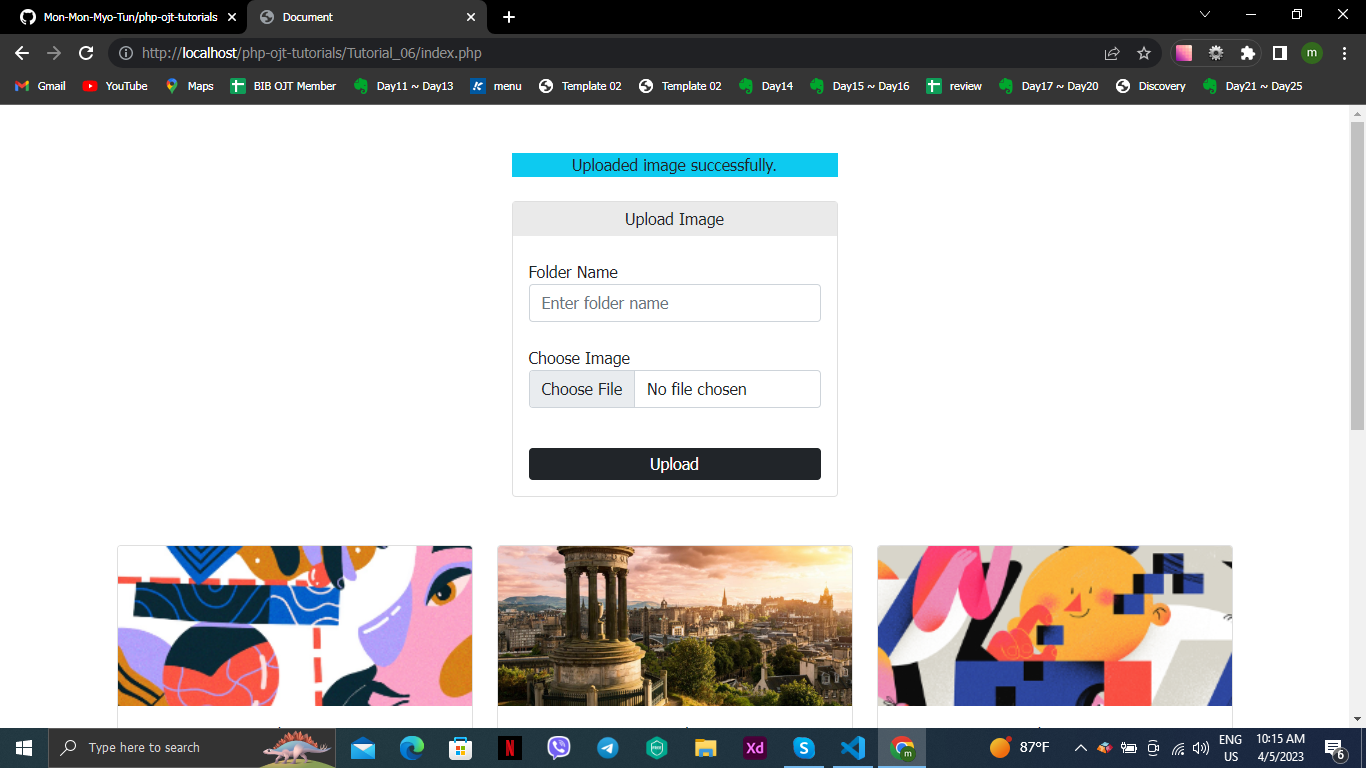
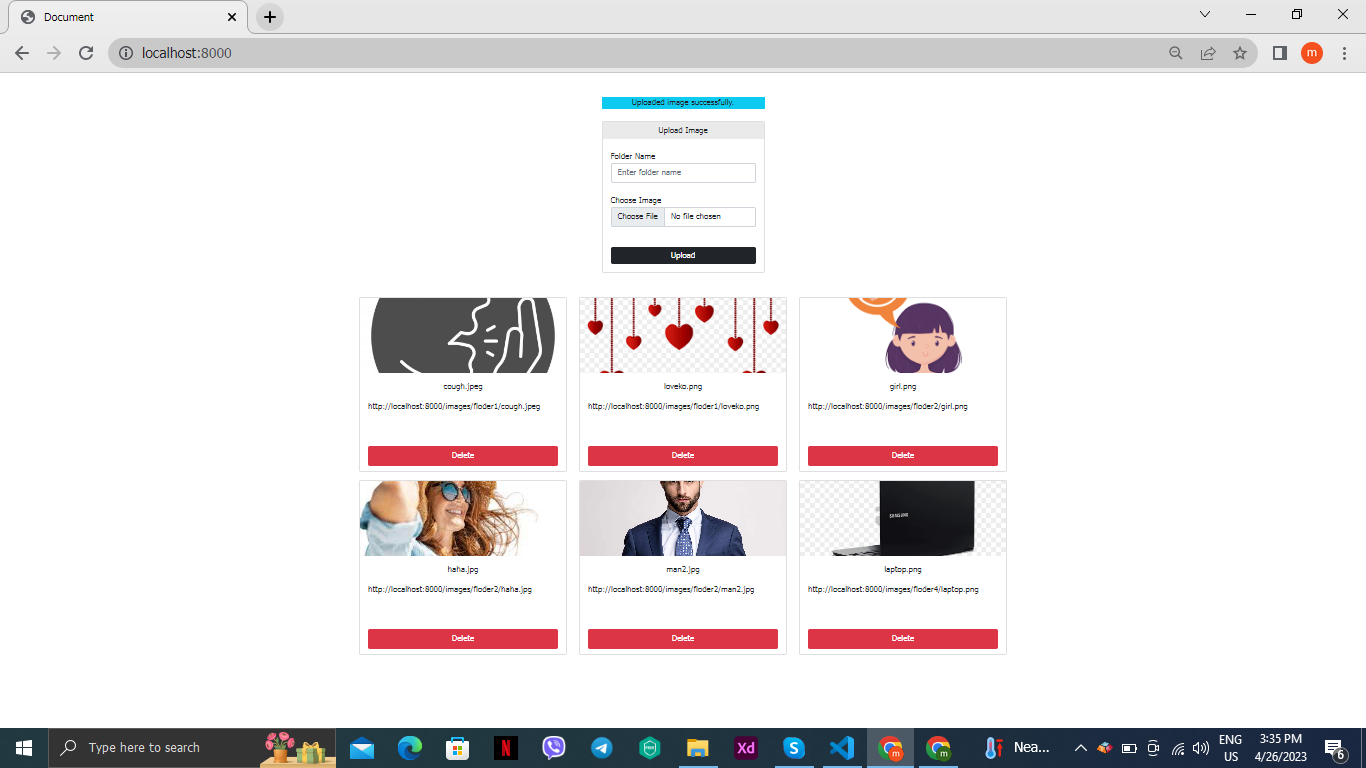
update  review of  tutorial06&07

diff --git a/Tutorial_06/css/style.css b/Tutorial_06/css/style.css
@@ -34,3 +34,14 @@
 .card-btn{
   width: 100%;
 }
+
+.card-hight{
+  height: 350px;
+}
+.img-hight{
+  height: 150px;
+}
+
+.txt-hight{
+  height:50px;
+}
